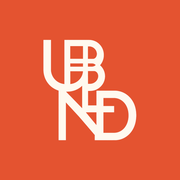
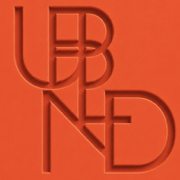
Restore launcher branding and repair dashboard grant audit

Changed region(s): [[0.0556, 0.0278, 1.0, 0.9722]]

diff --git a/tests/appIconBranding.test.ts b/tests/appIconBranding.test.ts
@@ -1,3 +1,4 @@
+import { createHash } from 'node:crypto'
 import { readFileSync } from 'node:fs'
 import sharp from 'sharp'
 import { describe, expect, it } from 'vitest'
@@ -5,31 +6,23 @@ import manifest from '../src/app/manifest'
 
 const asset = (path: string) => readFileSync(new URL(`../${path}`, import.meta.url))
 
-describe('flat Unblind app mark', () => {
+describe('Unblind launcher branding stays separate from the in-app drawer', () => {
   it.each([
-    ['icon-192-v7.png', 192],
-    ['icon-512-v7.png', 512],
-    ['apple-touch-icon-v7.png', 180],
-  ] as const)('keeps %s centered on the same full-bleed orange', async (name, size) => {
-    const { data, info } = await sharp(asset(`public/icons/${name}`)).removeAlpha().raw().toBuffer({ resolveWithObject: true })
-    expect(info).toMatchObject({ width: size, height: size, channels: 3 })
-    expect([...data.subarray(0, 3)]).toEqual([228, 83, 48])
-    let symbolPixels = 0
-    for (let y = 0; y < size; y++) for (let x = 0; x < size; x++) {
-      if (data[(y * size + x) * 3 + 1] < 130) continue
-      if (Math.hypot(x - size / 2, y - size / 2) > 0.40 * size) {
-        throw new Error('The mark exceeds the maskable icon safe area')
-      }
-      symbolPixels++
-    }
-    expect(symbolPixels).toBeGreaterThan(size * size * 0.07)
[3 lines of base64/hex data omitted]
+  ] as const)('preserves the original %s artwork', async (name, size, checksum) => {
+    const image = asset(`public/icons/${name}`)
+    expect(createHash('sha256').update(image).digest('hex')).toBe(checksum)
+    await expect(sharp(image).metadata()).resolves.toMatchObject({ width: size, height: size, format: 'png' })
   })
 
   it('matches the installation manifest and Next.js metadata icon files', () => {
     expect(manifest().icons).toContainEqual(expect.objectContaining({
-      src: '/icons/icon-512-v7.png', purpose: 'maskable',
+      src: '/icons/icon-512-v6.png', purpose: 'maskable',
     }))
-    expect(asset('src/app/apple-icon.png')).toEqual(asset('public/icons/apple-touch-icon-v7.png'))
-    expect(asset('src/app/icon.png')).toEqual(asset('public/icons/icon-512-v7.png'))
+    expect(manifest().shortcuts?.every(({ icons }) => icons?.[0]?.src === '/icons/icon-192-v6.png')).toBe(true)
+    expect(asset('src/app/apple-icon.png')).toEqual(asset('public/icons/apple-touch-icon-v6.png'))
+    expect(asset('src/app/icon.png')).toEqual(asset('public/icons/icon-512-v6.png'))
   })
 })

diff --git a/tests/churchDashboardScope.test.ts b/tests/churchDashboardScope.test.ts
@@ -11,6 +11,10 @@ const secondDepartmentMigration = readFileSync(
   new URL('../supabase/migrations/20261125020000_church_dashboard_verified_2bu.sql', import.meta.url),
   'utf8',
 )
+const auditActionMigration = readFileSync(
+  new URL('../supabase/migrations/20261125070000_allow_church_dashboard_audit_actions.sql', import.meta.url),
+  'utf8',
+)
 
 describe('church dashboard access boundaries', () => {
   const snapshotRow: ChurchDashboardSnapshotRow = {
@@ -106,5 +110,19 @@ describe('church dashboard access boundaries', () => {
     expect(secondDepartmentMigration).toContain("v_profile.church_place_id <> 'way-465724410'")
     expect(secondDepartmentMigration).toContain("p_department <> '2부'")
     expect(secondDepartmentMigration).toContain('revoke all on function public.set_church_dashboard_access_v2')
+  })
+
+  it('accepts the two dashboard audit events without losing the legacy admin actions', () => {
+    const oldActions = ['add', 'block', 'unblock', 'reset_agreement', 'remove', 'update_memo']
+    const auditEvents = [...new Set(secondDepartmentMigration.match(/'church_dashboard_(grant|revoke)'/g))]
+      .map((event) => event.slice(1, -1))
+    const allowed = auditActionMigration.match(/check\s*\(action_type in \(([\s\S]*?)\)\);/)?.[1]
+    const actions = [...(allowed?.matchAll(/'([a-z_]+)'/g) ?? [])].map((entry) => entry[1])
+
+    expect(auditEvents).toEqual(['church_dashboard_grant', 'church_dashboard_revoke'])
+    expect(actions).toEqual([...oldActions, ...auditEvents])
+    expect(auditActionMigration).toContain('drop constraint if exists admin_user_actions_action_type_check')
+    expect(auditActionMigration).toContain('add constraint admin_user_actions_action_type_check')
+    expect(auditActionMigration).not.toMatch(/grant\s+execute|create\s+or\s+replace\s+function/)
   })
 })

diff --git a/src/app/components/PwaLifecycle.tsx b/src/app/components/PwaLifecycle.tsx
@@ -380,7 +380,7 @@ export function PwaLifecycle() {
       {pathname === '/' && offerVisible && !flowOpen && (
         <aside className="pwa-install-offer fixed inset-x-3 bottom-[calc(12px+env(safe-area-inset-bottom))] z-[100] mx-auto max-w-[430px] overflow-hidden rounded-[24px] border border-white/60 bg-[var(--ub-surface-card-strong)] p-4 text-[var(--ub-text-primary)] shadow-[var(--ub-shadow-glass)]" aria-label="언블라인드 앱 설치">
           <div className="flex items-center gap-3">
-            <Image src="/icons/icon-192-v7.png" alt="" width={56} height={56} className="h-14 w-14 rounded-[14px] shadow-sm" />
+            <Image src="/icons/icon-192-v6.png" alt="" width={56} height={56} className="h-14 w-14 rounded-[14px] shadow-sm" />
             <div className="min-w-0 flex-1">
               <div className="flex items-center gap-2">
                 <p className="ios-title">언블라인드</p>
@@ -404,7 +404,7 @@ export function PwaLifecycle() {
 
             <div className="text-center">
               <div className="pwa-install-icon mx-auto w-fit rounded-[24px] bg-white p-1 shadow-[0_14px_38px_rgba(0,0,0,0.16)]">
-                <Image src="/icons/icon-192-v7.png" alt="언블라인드" width={88} height={88} className="h-[88px] w-[88px] rounded-[21px]" preload />
+                <Image src="/icons/icon-192-v6.png" alt="언블라인드" width={88} height={88} className="h-[88px] w-[88px] rounded-[21px]" preload />
               </div>
               <span className="mt-4 inline-flex rounded-full bg-[var(--ub-surface-brand-soft)] px-3 py-1 text-[12px] font-bold text-[var(--ub-color-brand)]">{platformLabel(platform)} 무료 설치</span>
               <h2 id="pwa-install-title" className="mt-3 text-[27px] font-bold leading-[34px] tracking-[-0.5px]">언블라인드 설치</h2>

diff --git a/src/app/components/HomeAppDrawer.module.css b/src/app/components/HomeAppDrawer.module.css
@@ -73,7 +73,7 @@
   inline-size: 60px;
   block-size: 60px;
   flex: none;
-  border: 1px solid rgb(255 255 255 / 58%);
+  border: 1px solid rgb(255 255 255 / 28%);
   border-radius: 16px;
   background: linear-gradient(145deg, var(--tile-hi), var(--tile-lo));
   color: var(--tile-ink);
@@ -88,13 +88,13 @@
   object-fit: cover;
 }
 
-.icon[data-tone='sage'] { --tile-hi: #d1dfb9; --tile-lo: #90b28a; --tile-ink: #233923; }
-.icon[data-tone='rose'] { --tile-hi: #f4ccd6; --tile-lo: #df91ac; --tile-ink: #522338; }
-.icon[data-tone='apricot'] { --tile-hi: #ffdfb1; --tile-lo: #eba36d; --tile-ink: #542b12; }
-.icon[data-tone='blue'] { --tile-hi: #d3e6fa; --tile-lo: #8fb2dc; --tile-ink: #1f3659; }
-.icon[data-tone='violet'] { --tile-hi: #e8d8fa; --tile-lo: #baa0e0; --tile-ink: #3b2c62; }
-.icon[data-tone='coral'] { --tile-hi: #ffd4ba; --tile-lo: #ea9280; --tile-ink: #5b241b; }
-.icon[data-tone='amber'] { --tile-hi: #f8e4b5; --tile-lo: #dbb564; --tile-ink: #463008; }
+.icon[data-tone='sage'] { --tile-hi: #50cb9f; --tile-lo: #148568; }
+.icon[data-tone='rose'] { --tile-hi: #ffad57; --tile-lo: #f07127; }
+.icon[data-tone='apricot'] { --tile-hi: #ff8a8f; --tile-lo: #dd4967; }
+.icon[data-tone='blue'] { --tile-hi: #60bdf4; --tile-lo: #3375cf; }
+.icon[data-tone='violet'] { --tile-hi: #a689ed; --tile-lo: #6f56c4; }
+.icon[data-tone='coral'] { --tile-hi: #fc715e; --tile-lo: #df4635; }
+.icon[data-tone='amber'] { --tile-hi: #6d85e8; --tile-lo: #4057bb; }
 
 .label {
   display: block;

diff --git a/src/app/manifest.ts b/src/app/manifest.ts
@@ -25,19 +25,19 @@ export default function manifest(): MetadataRoute.Manifest {
     },
     icons: [
       {
-        src: '/icons/icon-192-v7.png',
+        src: '/icons/icon-192-v6.png',
         sizes: '192x192',
         type: 'image/png',
         purpose: 'any',
       },
       {
-        src: '/icons/icon-512-v7.png',
+        src: '/icons/icon-512-v6.png',
         sizes: '512x512',
         type: 'image/png',
         purpose: 'any',
       },
       {
-        src: '/icons/icon-512-v7.png',
+        src: '/icons/icon-512-v6.png',
         sizes: '512x512',
         type: 'image/png',
         purpose: 'maskable',
@@ -48,19 +48,19 @@ export default function manifest(): MetadataRoute.Manifest {
         name: '기도 나눔',
         short_name: '기도',
         url: '/board/prayer',
-        icons: [{ src: '/icons/icon-192-v7.png', sizes: '192x192' }],
+        icons: [{ src: '/icons/icon-192-v6.png', sizes: '192x192' }],
       },
       {
         name: '기도의 방',
         short_name: '기도의 방',
         url: '/pray',
-        icons: [{ src: '/icons/icon-192-v7.png', sizes: '192x192' }],
+        icons: [{ src: '/icons/icon-192-v6.png', sizes: '192x192' }],
       },
       {
         name: '알림',
         short_name: '알림',
         url: '/notifications',
-        icons: [{ src: '/icons/icon-192-v7.png', sizes: '192x192' }],
+        icons: [{ src: '/icons/icon-192-v6.png', sizes: '192x192' }],
       },
     ],
   }

diff --git a/public/sw.js b/public/sw.js
@@ -1,4 +1,4 @@
-const WORKER_VERSION = '74'
+const WORKER_VERSION = '75'
 const CACHE_NAME = `unblind-static-v${WORKER_VERSION}`
 const OUTBOX_DB = 'unblind-offline-outbox-v1'
 const OUTBOX_STORE = 'mutations'
@@ -8,12 +8,11 @@ const UUID_PATTERN = /^[0-9a-f]{8}-[0-9a-f]{4}-[0-9a-f]{4}-[0-9a-f]{4}-[0-9a-f]{
 const PRECACHE_URLS = [
   '/offline.html',
   '/brand/unblind-monogram-relief-v5.png',
-  '/brand/unblind-monogram-flat-v7.png',
   '/brand/unblind-wordmark-relief-v5.png',
   '/brand/unblind-slogan-relief-v5.png',
-  '/icons/icon-192-v7.png',
-  '/icons/icon-512-v7.png',
-  '/icons/apple-touch-icon-v7.png',
+  '/icons/icon-192-v6.png',
+  '/icons/icon-512-v6.png',
+  '/icons/apple-touch-icon-v6.png',
   '/icons/emoji-3d/bell.png',
   '/icons/emoji-3d/chat.png',
   '/icons/emoji-3d/check.png',
@@ -197,8 +196,8 @@ self.addEventListener('push', (event) => {
     typeof payload.title === 'string' && payload.title ? payload.title : '언블라인드',
     {
       body: typeof payload.body === 'string' ? payload.body : '',
-      icon: '/icons/icon-192-v7.png',
-      badge: '/icons/icon-192-v7.png',
+      icon: '/icons/icon-192-v6.png',
+      badge: '/icons/icon-192-v6.png',
       tag: typeof payload.notificationId === 'string' ? `unblind-${payload.notificationId}` : 'unblind-notification',
       data: { href },
     },

diff --git a/tests/homeAppDrawer.test.ts b/tests/homeAppDrawer.test.ts
@@ -33,10 +33,10 @@ describe('home app drawer', () => {
     expect(html).toMatch(/<button(?=[^>]*aria-label="오늘의 찬양")(?![^>]*disabled)/)
   })
 
-  it('loads seven compact square liquid-glass icon images', async () => {
+  it('loads seven compact square iOS-style icon images in the app drawer', async () => {
     const html = renderDrawer()
     for (const name of ['journey', 'manitto', 'gratitude', 'recreation', 'mbti', 'shorts', 'praise']) {
-      const path = `/icons/app-drawer-v2/${name}.webp`
+      const path = `/icons/app-drawer-v3/${name}.webp`
       expect(html).toContain(`src="${path}"`)
       const data = readFileSync(new URL(`../public${path}`, import.meta.url))
       expect(data.byteLength).toBeLessThan(18_000)

diff --git a/src/app/components/HomeAppTile.tsx b/src/app/components/HomeAppTile.tsx
@@ -31,7 +31,7 @@ export function HomeAppTileContent({ label, tone, badge, status, error }: HomeAp
   return (
     <>
       <span className={styles.icon} data-tone={tone} aria-hidden="true">
-        <Image src={`/icons/app-drawer-v2/${iconArt[tone]}.webp`} alt="" width={192} height={192} className={styles.iconImage} unoptimized />
+        <Image src={`/icons/app-drawer-v3/${iconArt[tone]}.webp`} alt="" width={192} height={192} className={styles.iconImage} unoptimized />
         {badge && <span className={styles.badge} data-state={badge} />}
       </span>
       <span className={styles.label}>{label}</span>

diff --git a/src/app/layout.tsx b/src/app/layout.tsx
@@ -29,11 +29,11 @@ export const metadata: Metadata = {
   },
   icons: {
     icon: [
-      { url: "/icons/icon-192-v7.png", sizes: "192x192", type: "image/png" },
-      { url: "/icons/icon-512-v7.png", sizes: "512x512", type: "image/png" },
+      { url: "/icons/icon-192-v6.png", sizes: "192x192", type: "image/png" },
+      { url: "/icons/icon-512-v6.png", sizes: "512x512", type: "image/png" },
     ],
     apple: [
-      { url: "/icons/apple-touch-icon-v7.png", sizes: "180x180", type: "image/png" },
+      { url: "/icons/apple-touch-icon-v6.png", sizes: "180x180", type: "image/png" },
     ],
   },
 };

diff --git a/tests/brandLogo.test.ts b/tests/brandLogo.test.ts
@@ -117,7 +117,8 @@ describe('relief brand logo set', () => {
   })
 
   it('uses each composition in the context where it remains legible', () => {
-    expect(shellSource).toContain('/brand/unblind-monogram-flat-v7.png')
+    expect(shellSource).toContain('/brand/unblind-monogram-relief-v5.png')
+    expect(shellSource).not.toContain('/brand/unblind-monogram-flat-v7.png')
     expect(shellSource).toContain('/brand/unblind-wordmark-relief-v5.png')
     expect(webLoginSource).toContain('/brand/unblind-wordmark-relief-v5.png')
     expect(mobileLoginSource).toContain('unblind-wordmark-relief-v5.png')

diff --git a/public/offline.html b/public/offline.html
@@ -18,7 +18,7 @@
   </head>
   <body>
     <main>
-      <img src="/icons/icon-192-v7.png" alt="언블라인드" />
+      <img src="/icons/icon-192-v6.png" alt="언블라인드" />
       <h1>인터넷 연결을 확인해주세요</h1>
       <p>언블라인드는 개인정보 보호를 위해 게시물과 계정 정보를 기기에 저장하지 않습니다. 연결이 복구되면 다시 이용할 수 있습니다.</p>
       <button type="button" onclick="location.reload()">다시 연결</button>

diff --git a/src/app/components/ui/AppShell.tsx b/src/app/components/ui/AppShell.tsx
@@ -58,7 +58,7 @@ function TopLogoBar({
             >
               {title ? (
               <Image
-                src="/brand/unblind-monogram-flat-v7.png"
+                src="/brand/unblind-monogram-relief-v5.png"
                 alt="UNBLIND"
                 width={36}
                 height={36}
